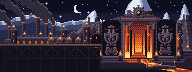
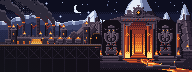
theme(ui): light Deepforge's furnace from rank III and fan Runespire's beam
Deepforge III differed too little from II: its great furnace mouth and
red pennants now arrive at rank III. Runespire V's crystal sits near
the top edge, so rays now fan up from it to read as a beam.

diff --git a/scripts/city-art/deepforge_ranks.py b/scripts/city-art/deepforge_ranks.py
@@ -379,10 +379,12 @@ def draw(rank):
             cv.rect(x, 41, x + 2, 44, 'F2'); cv.set(x, 41, 'F3')
         cv.hline(14, 63, 46, 'R1')
         if T >= 4:
-            # an upper storey of lit windows and a great arched furnace mouth
+            # an upper storey of lit windows
             for x in range(16, 63, 4):
                 cv.set(x, 35, 'F3'); cv.set(x, 36, 'F1')
             cv.hline(14, 63, 38, 'R1'); cv.hline(14, 63, 39, 'R3')
+        if T >= 3:
+            # the great arched furnace mouth, roaring from rank III
             for y in range(39, 47):
                 hw = 5 if y > 40 else 4
                 for x in range(36 - hw, 37 + hw):
@@ -393,6 +395,7 @@ def draw(rank):
                     cv.set(x, y, k)
                 cv.set(36 - hw - 1, y, 'R4'); cv.set(37 + hw, y, 'R0')
             cv.hline(30, 42, 38, 'R4'); cv.hline(33, 39, 37, 'R4')
+        if T >= 4:
             # the great bellows on the roof, pumped by a beam
             cv.poly([(22, 32), (32, 30), (32, 33), (22, 33)], 'T')
             cv.hline(22, 32, 30 + 0, 'R0'); cv.hline(22, 32, 33, 'R0')
@@ -408,6 +411,9 @@ def draw(rank):
             cv.hline(14, 63, top - 1, 'R4')
             for x in (24, 40, 50):
                 fire_pot(cv, x, top - 4)
+            # red pennants over the parapet: the foundry flies the hold's colours from rank III
+            for x in (17, 31, 45, 59):
+                flag(cv, x, top - 13, 10, 'F1' if T < 5 else 'BL', 5, 'F0' if T < 5 else 'N2')
             # squat towers at both ends of the foundry wall
             tower(11, top - 9, 5, 46, T >= 4)
             tower(61, top - 9, 5, 46, T >= 4)

diff --git a/scripts/city-art/runespire_ranks.py b/scripts/city-art/runespire_ranks.py
@@ -142,6 +142,16 @@ def draw(rank):
                     cv.set(bx + dx, y, 'N4')
                 elif a == 5:
                     cv.set(bx + dx, y, 'C0' if k in ('N4', 'N3') else 'N4')
+        # rays fanning up from the crystal to the top edge, so the light reads as a beam although the
+        # crystal stands near the top: two pairs of faint shafts either side of the column
+        for spread, keep in ((9, 0.6), (18, 0.35), (28, 0.2)):
+            for side in (-1, 1):
+                for y in range(0, CRY[1] + 1):
+                    t = 1 - y / max(1, CRY[1])
+                    x = bx + side * (3 + spread * (1 - t))
+                    for w in (0, 1):
+                        if cv.get(x + w * side, y) in ('N0', 'N1', 'N2', 'N3', 'AV', 'A0', 'A1') and bay(int(x) + w, y) < keep:
+                            cv.set(x + w * side, y, 'C0' if w == 0 else 'N4')
         # rune circle in the sky around the crystal
         for i in range(120):
             a = i / 120 * 2 * math.pi
